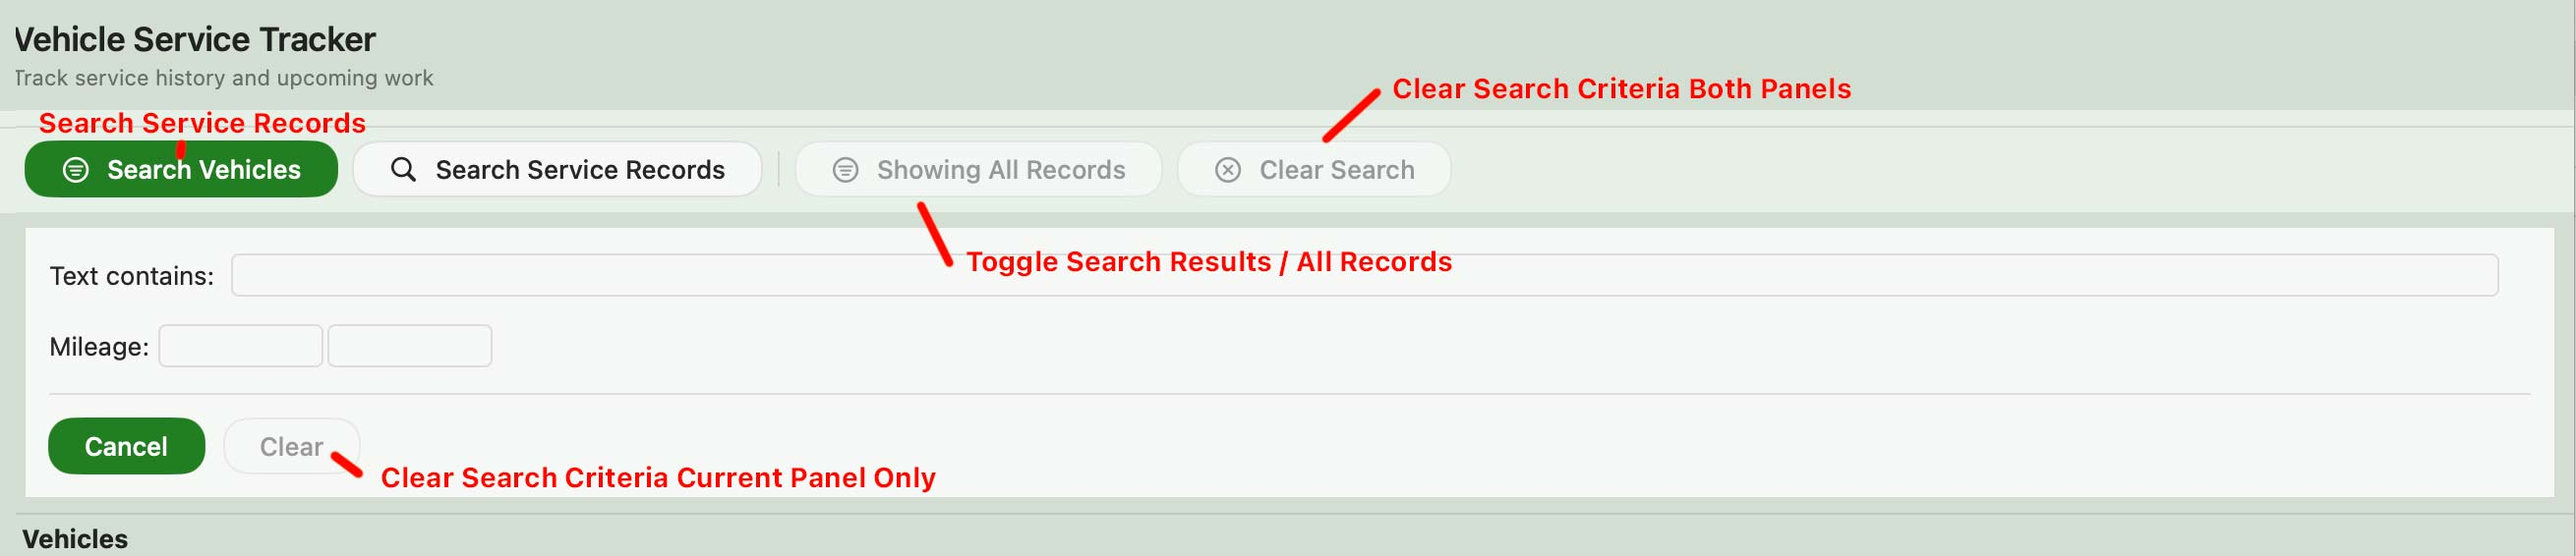
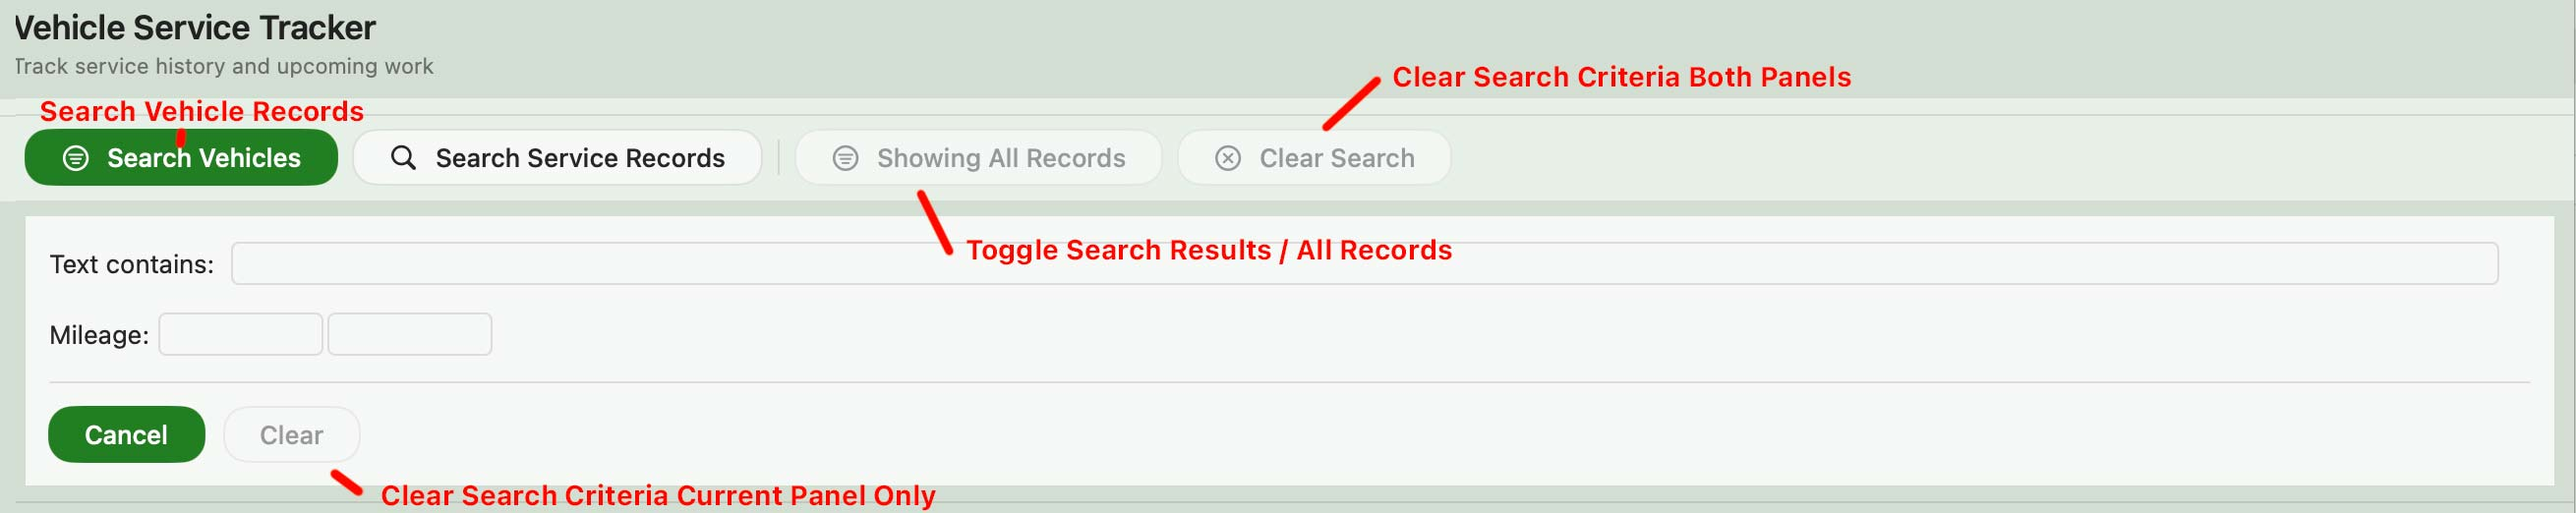
misc edits - updated images

diff --git a/docs.html b/docs.html
@@ -442,8 +442,21 @@ Paste this at the top of any <body> block
 <!-- END Menu locations -->	
 
 	<h3 id="faq">FAQ and Troubleshooting</h3>
-	<p>[Coming Soon]</p>
+	<!-- BACKUP -->
+	<h4>How do I back up my Vehicle Service Tracker data?</h4>
+
+		<p>Vehicle Service Tracker stores its live application data in the standard macOS application data location inside your user Library folder. If you use Time Machine or another full-system backup solution, this data is normally backed up automatically.</p>	
+		<p>For additional protection or portability, you can also use the <strong>Import/Export Data</strong> tools to create exported copies of your vehicles, service records, and attachments.</p>		
+		<p>Depending on your macOS configuration and sandboxing behavior, application data is typically stored in a location similar to:</p>		
+		<p><code>~/Library/Containers/rke.VehicleServiceTracker/Data/Library/Application Support/</code></p>
+		
+		<p>This folder and its contents should not be modified manually unless you are comfortable working directly with application support files and database storage.</p>
 	<hr>
+	
+	<!-- Auto Save -->
+	<h4>How is my data saved?</h4>
+
+	<p>Vehicle Service Tracker saves changes automatically as you work. Adding or editing vehicles, service records, attachments, and other application data does not require a separate Save button or manual save step.</p>
 	
 	<center>
 		<a href="#" style="display: inline-block;">
